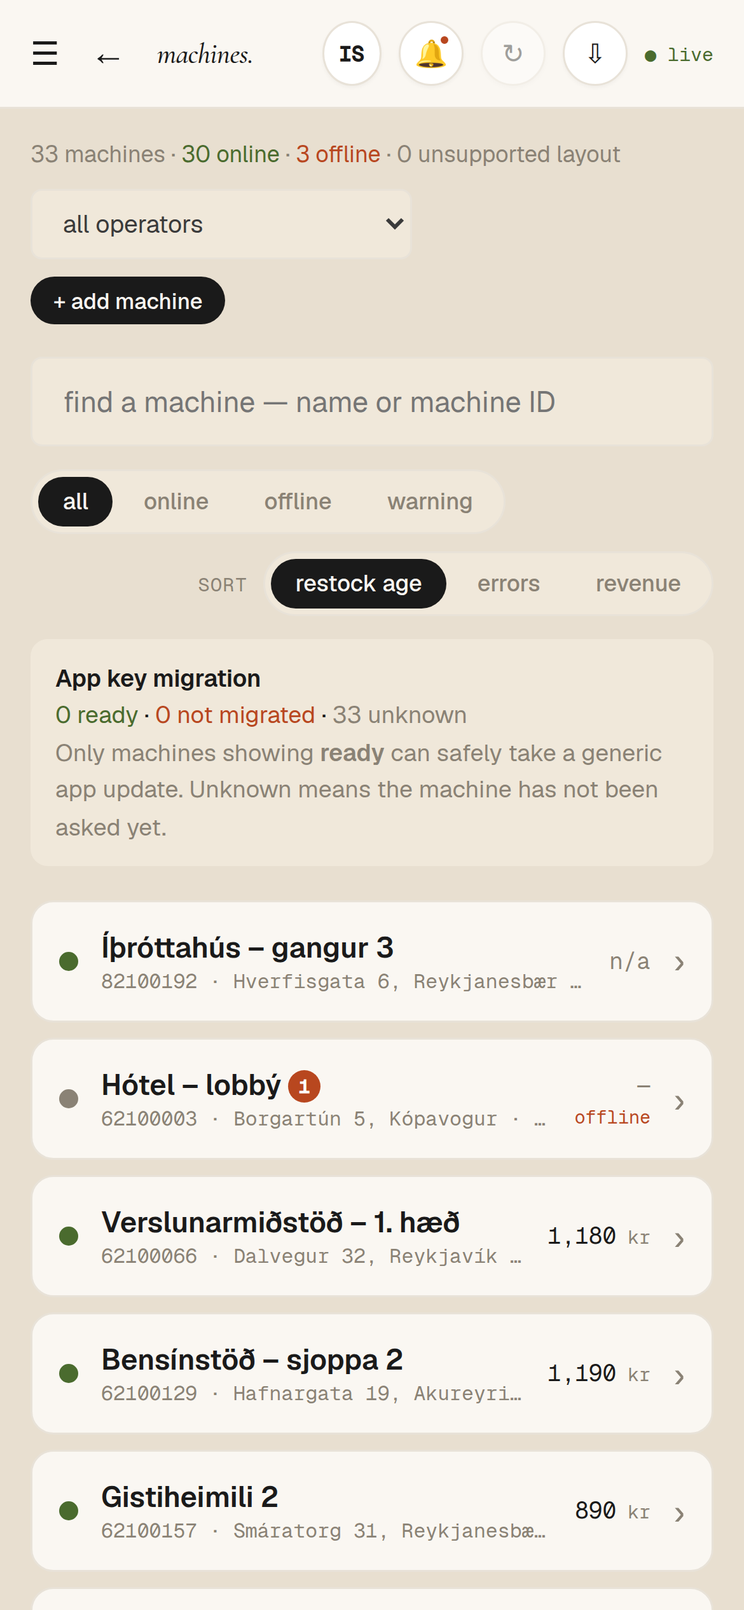
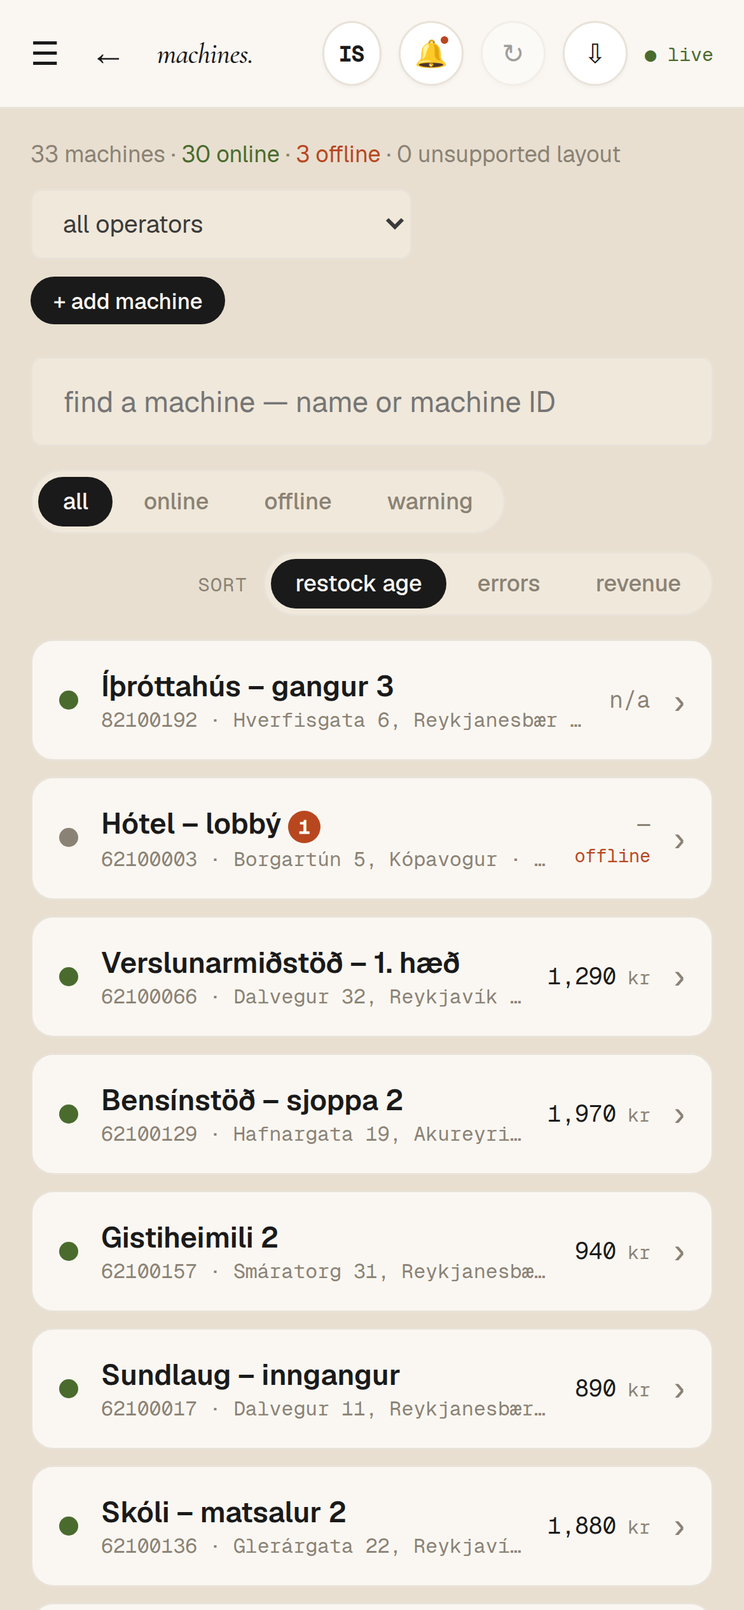
v6.36.0: restructured like the US vending platforms, screens shown whole in a framed view
Looked at how Cantaloupe Seed, Parlevel, VendSoft and VendSys present
themselves. The shared pattern: say who it is for in the first screen
(they all lead with machine counts), a scannable grid of named modules,
route and service efficiency as the core promise, money control given its
own billing - VAT, margin, commissions, cash accountability - and a demo or
free trial as the single call to action.

The page now follows that shape: a fit strip in the hero, an eight-module
capability grid, three deep sections on sales, stock and accounts, the
phone treated as a first-class surface, and the demo request kept as the
one CTA.

What is deliberately NOT copied is everything this product does not do.
No route optimisation, no dynamic routing, no pre-kit pick lists, no
warehouse inventory, and no invented savings percentages. Those are real
features of theirs and inventing them here would be the Nayax mistake
again.

Screenshots are no longer cropped panels. Each is the full 1440x900 or
390x844 viewport - the whole screen an operator actually sees - shown
inside a CSS browser window with an address bar, or a phone bezel.
Deliberately not fullPage captures either: a scroll capture is not a view
anyone sees at once (the phone orders list came out 8,179px tall).

THE REPORTING FIX APPLIES TO THE LIVE DASHBOARD. reports/summary never
read its days parameter, so the four tiles at the top of the reports page
summed every order ever taken and labelled the result 7D, 30D or 90D
[…]

Changed region(s): [[0.0308, 0.4056, 0.9538, 1.0]]

diff --git a/snarl-sopi-backend/public/features.html b/snarl-sopi-backend/public/features.html
@@ -63,15 +63,45 @@ section{padding:44px 0;border-bottom:1px solid var(--line);}
 h2{font-family:var(--serif);font-style:italic;font-weight:500;font-size:27px;margin-bottom:8px;}
 .sub{font-size:14.5px;color:var(--muted-2);max-width:62ch;margin-bottom:24px;}
 
+/* ── the operator's screen, framed ────────────────────────────────────── */
+/* Screenshots are shown whole, inside a window that looks like the app the operator opens, rather
+   than as cropped fragments floating on the page. The frame is CSS, so it stays crisp and costs
+   nothing; the image inside is the untouched 1440x900 viewport. */
+.screen{border-radius:11px;overflow:hidden;border:1px solid var(--cream-shadow);background:var(--cream);box-shadow:0 14px 44px rgba(0,0,0,.13);}
+.screen-bar{display:flex;align-items:center;gap:7px;padding:9px 12px;background:var(--cream-deep);border-bottom:1px solid var(--cream-shadow);}
+.screen-dot{width:9px;height:9px;border-radius:50%;background:var(--clay);flex:0 0 auto;}
+.screen-url{
+  flex:1;min-width:0;margin-left:6px;background:var(--cream);border:1px solid var(--cream-shadow);
+  border-radius:999px;padding:3px 11px;font-family:var(--mono);font-size:10px;color:var(--muted);
+  white-space:nowrap;overflow:hidden;text-overflow:ellipsis;
+}
+.screen img{display:block;width:100%;height:auto;}
+
+/* Phone: the same idea, a bezel around the real 390x844 screen. */
+.phone{width:100%;max-width:252px;margin:0 auto;border-radius:30px;padding:9px;background:var(--ink);box-shadow:0 14px 40px rgba(0,0,0,.2);}
+.phone img{display:block;width:100%;height:auto;border-radius:22px;}
+.phones{display:grid;grid-template-columns:repeat(auto-fit,minmax(170px,1fr));gap:22px;max-width:840px;}
+
+/* ── fit strip (who this is for, stated up front, the way the US platforms do) ─ */
+.fit{display:flex;flex-wrap:wrap;gap:10px;margin-top:22px;}
+.fit span{
+  background:var(--cream);border:.5px solid var(--line);border-radius:999px;padding:6px 14px;
+  font-size:12.5px;color:var(--ink-soft);
+}
+.fit b{font-weight:600;color:var(--ink);}
+
+/* ── capability grid ─────────────────────────────────────────────────── */
+.caps{display:grid;grid-template-columns:repeat(auto-fit,minmax(230px,1fr));gap:2px;background:var(--line);border:1px solid var(--line);border-radius:var(--r);overflow:hidden;}
+.caps > div{background:var(--cream);padding:16px 17px;}
+.caps h3{font-size:14px;font-weight:600;margin-bottom:4px;letter-spacing:-.1px;}
+.caps p{font-size:12.5px;color:var(--muted-2);line-height:1.5;}
+
 /* ── bands ───────────────────────────────────────────────────────────── */
-/* One band per thing an operator actually asks: what sold, what is in the machines, who needs a
-   visit. Text on one side, the real screen on the other, alternating. Three of them, and that is
-   the page - an operator scanning on a phone should be able to take in each one in a breath. */
-.band{display:grid;grid-template-columns:minmax(0,.72fr) minmax(0,1.28fr);gap:34px;align-items:center;}
-.band + .band{margin-top:52px;}
+.band{display:grid;grid-template-columns:minmax(0,.66fr) minmax(0,1.34fr);gap:32px;align-items:center;}
+.band + .band{margin-top:54px;}
 /* Flipping puts the text on the right, so the COLUMN WIDTHS have to flip with it - otherwise the
-   screenshot lands in the narrow column and shrinks to the point of being unreadable. */
-.band.flip{grid-template-columns:minmax(0,1.28fr) minmax(0,.72fr);}
+   screen lands in the narrow column and shrinks to the point of being unreadable. */
+.band.flip{grid-template-columns:minmax(0,1.34fr) minmax(0,.66fr);}
 .band.flip .band-txt{order:2;}
 .band-n{font-family:var(--mono);font-size:10px;letter-spacing:1.6px;color:var(--bronze-light);margin-bottom:10px;}
 .band h2{margin-bottom:10px;}
@@ -79,16 +109,21 @@ h2{font-family:var(--serif);font-style:italic;font-weight:500;font-size:27px;mar
 .pts{list-style:none;}
 .pts li{font-size:13.5px;color:var(--muted-2);padding:5px 0 5px 16px;position:relative;line-height:1.5;}
 .pts li::before{content:'';position:absolute;left:0;top:13px;width:5px;height:5px;border-radius:50%;background:var(--bronze-light);}
-@media (max-width:760px){
-  .band{grid-template-columns:1fr;gap:20px;}
+@media (max-width:820px){
+  .band, .band.flip{grid-template-columns:1fr;gap:20px;}
   .band.flip .band-txt{order:0;}
-  .band + .band{margin-top:40px;}
+  .band + .band{margin-top:42px;}
 }
 
-/* the short closing strip - one line each, no cards, no bullets */
 .also{display:grid;grid-template-columns:repeat(auto-fit,minmax(215px,1fr));gap:20px 26px;}
 .also div{font-size:13.5px;color:var(--muted-2);line-height:1.5;}
 .also strong{display:block;color:var(--ink);font-size:14px;font-weight:600;margin-bottom:3px;}
+
+/* ── honest-difference block ─────────────────────────────────────────── */
+.diff{background:var(--bronze-bg);border:1px solid var(--clay);border-radius:var(--rlg);padding:24px 22px;}
+.diff h3{font-family:var(--serif);font-style:italic;font-size:22px;font-weight:500;margin-bottom:9px;}
+.diff p{font-size:14.5px;color:var(--ink-soft);max-width:62ch;}
+.diff p + p{margin-top:10px;}
 
 .card{background:var(--cream);border:.5px solid var(--line);border-radius:var(--r);padding:17px 18px;}
 .card h3{font-size:15px;font-weight:600;margin-bottom:6px;letter-spacing:-.1px;}
@@ -168,34 +203,83 @@ footer a:hover{text-decoration:underline;}
 <div class="wrap">
 
   <div class="hero">
-    <h1 data-is="Hvað selst, hvað er að klárast, hvert þarf að fara."
-        data-en="What sold, what is running out, where you need to go.">Hvað selst, hvað er að klárast, hvert þarf að fara.</h1>
+    <h1 data-is="Sjáðu allar vélarnar í rauntíma — hvað selst, hvað er búið, hverja þarf að fylla."
+        data-en="See every machine in real time — what is selling, what is empty, which need filling.">Sjáðu allar vélarnar í rauntíma.</h1>
     <p class="lede"
-       data-is="Þrjár spurningar sem þú svarar á hverjum degi. Rekstrarkerfi fyrir sjálfsala og snjallkæla sem svarar þeim á einum skjá — líka í símanum, á leiðinni milli véla."
-       data-en="Three questions you answer every day. An operator backend for vending machines and smart fridges that answers them on one screen — including on your phone, between stops.">
-      Þrjár spurningar sem þú svarar á hverjum degi.
+       data-is="Rekstrarkerfi fyrir sjálfsala og snjallkæla: sala, lager, áfylling, viðvaranir og uppgjör á einum stað. Í vafra á skrifstofunni og í símanum á leiðinni."
+       data-en="An operator backend for vending machines and smart fridges: sales, stock, restocking, alerts and accounts in one place. In the browser at the office and on your phone on the road.">
+      Rekstrarkerfi fyrir sjálfsala og snjallkæla.
     </p>
-    <figure style="margin-top:30px">
-      <img class="shot" src="/assets/shots/desk-dashboard.png"
-           alt="Mælaborð rekstrarkerfisins" data-is-alt="Mælaborð rekstrarkerfisins" data-en-alt="The operator dashboard"
-           width="2880" height="1800">
+    <div class="fit">
+      <span data-is="Frá fyrstu vélinni upp í allan flotann" data-en="From your first machine to the whole fleet">Frá fyrstu vélinni upp í allan flotann</span>
+      <span data-is="Sjálfsalar og snjallkælar í sama viðmóti" data-en="Vending machines and smart fridges in one interface">Sjálfsalar og snjallkælar</span>
+      <span data-is="Íslenska og enska" data-en="Icelandic and English">Íslenska og enska</span>
+    </div>
+    <figure style="margin-top:32px">
+      <div class="screen">
+          <div class="screen-bar">
+            <span class="screen-dot"></span><span class="screen-dot"></span><span class="screen-dot"></span>
+            <span class="screen-url">admin.agvending.is</span>
+          </div>
+          <img src="/assets/shots/dashboard.png" width="2880" height="1800"
+               alt="Mælaborð rekstrarkerfisins" data-is-alt="Mælaborð rekstrarkerfisins" data-en-alt="The operator dashboard">
+        </div>
       <figcaption data-is="Sýnigögn — raunverulegt viðmót, tilbúnar tölur."
                   data-en="Sample data — the real interface, illustrative figures.">Sýnigögn — raunverulegt viðmót, tilbúnar tölur.</figcaption>
     </figure>
-    <div class="hero-meta">
-      <span data-is="Sjálfsalar og snjallkælar" data-en="Vending machines and smart fridges">Sjálfsalar og snjallkælar</span>
-      <span data-is="Íslenska og enska" data-en="Icelandic and English">Íslenska og enska</span>
-      <span data-is="Hannað fyrir símann" data-en="Built for the phone">Hannað fyrir símann</span>
-    </div>
   </div>
+
+  <!-- ── capability grid: named modules, one line each, scannable ────── -->
+  <section>
+    <h2 data-is="Allt sem reksturinn þarf" data-en="Everything the operation needs">Allt sem reksturinn þarf</h2>
+    <p class="sub"
+       data-is="Eitt kerfi í stað þess að púsla saman töflureiknum, skilaboðum og minnisblöðum."
+       data-en="One system instead of stitching together spreadsheets, messages and notes.">
+      Eitt kerfi í stað töflureikna og minnisblaða.
+    </p>
+    <div class="caps">
+      <div>
+        <h3 data-is="Sala í rauntíma" data-en="Real-time sales">Sala í rauntíma</h3>
+        <p data-is="Tekjur dagsins, vikunnar og mánaðarins — á flotann og á hverja vél." data-en="Revenue today, this week and this month — fleet-wide and per machine.">Tekjur á flotann og á hverja vél.</p>
+      </div>
+      <div>
+        <h3 data-is="Lagerstaða" data-en="Stock levels">Lagerstaða</h3>
+        <p data-is="Hvað er eftir í hverri vél, niður í einstök hólf, og hvað er uppselt núna." data-en="What is left in each machine, down to the slot, and what is sold out right now.">Niður í einstök hólf.</p>
+      </div>
+      <div>
+        <h3 data-is="Áfyllingarlisti" data-en="Restock queue">Áfyllingarlisti</h3>
+        <p data-is="Vélarnar raðaðar eftir því hverja er brýnast að heimsækja." data-en="Machines ranked by which most needs a visit.">Brýnast efst.</p>
+      </div>
+      <div>
+        <h3 data-is="Viðvaranir" data-en="Alerts">Viðvaranir</h3>
+        <p data-is="Vél sem dettur út, kælir sem hlýnar, hólf sem tæmist — á skjá og í tölvupósti." data-en="A machine that drops off, a fridge that warms, a slot that empties — on screen and by email.">Á skjá og í tölvupósti.</p>
+      </div>
+      <div>
+        <h3 data-is="Uppgjör og VSK" data-en="Accounts and VAT">Uppgjör og VSK</h3>
+        <p data-is="Tekjur, VSK og framlegð eftir vöru. Kvittanir og útflutningur í CSV." data-en="Revenue, VAT and margin by product. Receipts and CSV export.">Framlegð eftir vöru, CSV út.</p>
+      </div>
+      <div>
+        <h3 data-is="Fjarstýring" data-en="Remote control">Fjarstýring</h3>
+        <p data-is="Opna hurð kælis, stilla kælingu, taka vél úr sölu — án þess að fara á staðinn." data-en="Open a fridge door, set the cooling, take a machine out of service — without driving there.">Án þess að fara á staðinn.</p>
+      </div>
+      <div>
+        <h3 data-is="Kvartanir" data-en="Complaints">Kvartanir</h3>
+        <p data-is="Kvörtun kemur úr vélinni sjálfri; þú svarar og endurgreiðir úr sama viðmóti." data-en="A complaint arrives from the machine itself; you reply and refund from the same screen.">Svara og endurgreiða á staðnum.</p>
+      </div>
+      <div>
+        <h3 data-is="Notendur og aðgangur" data-en="Users and access">Notendur og aðgangur</h3>
+        <p data-is="Starfsmaður sér aðeins sínar vélar. Rekstrarstjóri sér allt og býður öðrum aðgang." data-en="Staff see only their own machines. The manager sees everything and invites the rest.">Hver sér aðeins sitt.</p>
+      </div>
+    </div>
+  </section>
 
   <section>
     <div class="band">
       <div class="band-txt">
         <div class="band-n">01</div>
         <h2 data-is="Salan" data-en="Sales">Salan</h2>
-        <p data-is="Tekjur dagsins efst, og svo niður í hvern dag, hverja vél og hverja færslu. Sjö dagar, þrjátíu eða níutíu."
-           data-en="Today's revenue at the top, then down into each day, each machine and each transaction. Seven days, thirty or ninety.">
+        <p data-is="Tekjur dagsins efst, og svo niður í hvern dag, hverja vél og hverja færslu."
+           data-en="Today's revenue at the top, then down into each day, each machine and each transaction.">
           Tekjur dagsins efst, og svo niður í hvern dag, hverja vél og hverja færslu.
         </p>
         <ul class="pts">
@@ -205,10 +289,15 @@ footer a:hover{text-decoration:underline;}
         </ul>
       </div>
       <figure>
-        <img class="shot" loading="lazy" src="/assets/shots/sales-trends.png"
-             alt="Tekjur síðustu 30 daga" data-is-alt="Tekjur síðustu 30 daga" data-en-alt="Revenue over the last 30 days"
-             width="2328" height="464">
-        <figcaption data-is="Tekjur eftir dögum" data-en="Revenue by day">Tekjur eftir dögum</figcaption>
+        <div class="screen">
+          <div class="screen-bar">
+            <span class="screen-dot"></span><span class="screen-dot"></span><span class="screen-dot"></span>
+            <span class="screen-url">admin.agvending.is</span>
+          </div>
+          <img loading="lazy" src="/assets/shots/dashboard-revenue.png" width="2880" height="1800"
+               alt="Tekjur og frammistaða véla" data-is-alt="Tekjur og frammistaða véla" data-en-alt="Revenue and machine performance">
+        </div>
+        <figcaption data-is="Tekjur eftir dögum og tekjur eftir vél" data-en="Revenue by day and revenue by machine">Tekjur eftir dögum og eftir vél</figcaption>
       </figure>
     </div>
 
@@ -216,44 +305,72 @@ footer a:hover{text-decoration:underline;}
       <div class="band-txt">
         <div class="band-n">02</div>
         <h2 data-is="Lagerinn" data-en="Stock">Lagerinn</h2>
-        <p data-is="Hvað er eftir í hverri vél, niður í einstök hólf. Þú sérð hvað er búið áður en viðskiptavinurinn gerir það."
-           data-en="What is left in each machine, down to the individual slot. You see what has run out before the customer does.">
-          Hvað er eftir í hverri vél, niður í einstök hólf.
+        <p data-is="Hvað er eftir í hverri vél. Þú sérð hvað er búið áður en viðskiptavinurinn gerir það."
+           data-en="What is left in each machine. You see what has run out before the customer does.">
+          Hvað er eftir í hverri vél.
         </p>
         <ul class="pts">
           <li data-is="Hvaða vara er búin, í hvaða vél, og hversu lengi" data-en="Which product is out, in which machine, and for how long">Hvað er búið og hversu lengi</li>
-          <li data-is="Lagerstaða í prósentum á hverja vél" data-en="Stock level as a percentage, per machine">Lagerstaða á hverja vél</li>
+          <li data-is="Nettengd eða ekki, og hvenær var síðast fyllt á" data-en="Online or not, and when it was last filled">Nettengd og síðasta áfylling</li>
           <li data-is="Síðasti söludagur eftir lotum" data-en="Best-before dates, tracked per batch">Síðasti söludagur</li>
         </ul>
       </div>
       <figure>
-        <img class="shot" loading="lazy" src="/assets/shots/stock-soldout.png"
-             alt="Vörur sem eru uppseldar" data-is-alt="Vörur sem eru uppseldar" data-en-alt="Products currently sold out"
-             width="2328" height="814">
-        <figcaption data-is="Uppselt núna, yfir allan flotann" data-en="Sold out right now, across the fleet">Uppselt núna, yfir allan flotann</figcaption>
+        <div class="screen">
+          <div class="screen-bar">
+            <span class="screen-dot"></span><span class="screen-dot"></span><span class="screen-dot"></span>
+            <span class="screen-url">admin.agvending.is</span>
+          </div>
+          <img loading="lazy" src="/assets/shots/machines.png" width="2880" height="1800"
+               alt="Vélalisti með stöðu og síðustu áfyllingu" data-is-alt="Vélalisti með stöðu og síðustu áfyllingu" data-en-alt="The machine list with status and last restock">
+        </div>
+        <figcaption data-is="Allur flotinn í einum lista" data-en="The whole fleet in one list">Allur flotinn í einum lista</figcaption>
       </figure>
     </div>
 
     <div class="band">
       <div class="band-txt">
         <div class="band-n">03</div>
-        <h2 data-is="Áfyllingin" data-en="Restocking">Áfyllingin</h2>
-        <p data-is="Vélunum raðað eftir því hverja er brýnast að heimsækja — dagar frá síðustu áfyllingu og hversu full hún er. Svo skráirðu áfyllinguna í símanum, við vélina."
-           data-en="Machines ranked by which most needs a visit — days since the last fill and how full it is. Then you record the fill on your phone, standing at the machine.">
-          Vélunum raðað eftir því hverja er brýnast að heimsækja.
+        <h2 data-is="Uppgjörið" data-en="The accounts">Uppgjörið</h2>
+        <p data-is="Tekjur, VSK og framlegð eftir vöru — yfir sjö daga, þrjátíu eða níutíu. Út í CSV fyrir bókarann."
+           data-en="Revenue, VAT and margin by product — over seven days, thirty or ninety. Out to CSV for the bookkeeper.">
+          Tekjur, VSK og framlegð eftir vöru.
         </p>
         <ul class="pts">
-          <li data-is="Hverja þarf að heimsækja í dag, og hverja ekki" data-en="Which need a visit today, and which do not">Hverja þarf að heimsækja</li>
-          <li data-is="Skráning hólf fyrir hólf, í símanum við vélina" data-en="Record it slot by slot, on your phone at the machine">Skráning hólf fyrir hólf</li>
-          <li data-is="Verð má leiðrétta um leið" data-en="Fix a price while you are there">Verð má leiðrétta um leið</li>
+          <li data-is="VSK innheimt og tekjur án VSK" data-en="VAT collected and revenue net of VAT">VSK og tekjur án VSK</li>
+          <li data-is="Framlegð eftir vöru, ekki bara sala" data-en="Margin by product, not just sales">Framlegð eftir vöru</li>
+          <li data-is="Mest sölu vörur og þær sem hreyfast ekki" data-en="Best sellers and the ones that never move">Mest sölu og minnst sölu</li>
         </ul>
       </div>
       <figure>
-        <img class="shot" loading="lazy" src="/assets/shots/restock-due.png"
-             alt="Vélar sem þarf að fylla á" data-is-alt="Vélar sem þarf að fylla á" data-en-alt="Machines due a restock"
-             width="2328" height="638">
-        <figcaption data-is="Brýnast efst" data-en="Most overdue first">Brýnast efst</figcaption>
+        <div class="screen">
+          <div class="screen-bar">
+            <span class="screen-dot"></span><span class="screen-dot"></span><span class="screen-dot"></span>
+            <span class="screen-url">admin.agvending.is</span>
+          </div>
+          <img loading="lazy" src="/assets/shots/reports.png" width="2880" height="1800"
+               alt="Uppgjör: tekjur, VSK og framlegð" data-is-alt="Uppgjör: tekjur, VSK og framlegð" data-en-alt="Reports: revenue, VAT and margin">
+        </div>
+        <figcaption data-is="Uppgjör yfir valið tímabil" data-en="Accounts over the chosen period">Uppgjör yfir valið tímabil</figcaption>
       </figure>
+    </div>
+  </section>
+
+  <!-- ── the phone: same system, in your hand ───────────────────────── -->
+  <section>
+    <h2 data-is="Sama kerfið í símanum" data-en="The same system on your phone">Sama kerfið í símanum</h2>
+    <p class="sub"
+       data-is="Ekki stytt útgáfa og ekki sérstakt smáforrit — sama kerfið, sami aðgangur, í vafranum í símanum. Þar fer reksturinn fram."
+       data-en="Not a cut-down version and not a separate app — the same system, the same login, in your phone's browser. That is where the work happens.">
+      Sama kerfið, sami aðgangur, í vafranum í símanum.
+    </p>
+    <div class="phones">
+      <div class="phone"><img loading="lazy" src="/assets/shots/phone-dashboard.png" width="1170" height="2532"
+           alt="Mælaborð í síma" data-is-alt="Mælaborð í síma" data-en-alt="The dashboard on a phone"></div>
+      <div class="phone"><img loading="lazy" src="/assets/shots/phone-machines.png" width="1170" height="2532"
+           alt="Vélalisti í síma" data-is-alt="Vélalisti í síma" data-en-alt="The machine list on a phone"></div>
+      <div class="phone"><img loading="lazy" src="/assets/shots/phone-orders.png" width="1170" height="2532"
+           alt="Færslur í síma" data-is-alt="Færslur í síma" data-en-alt="Transactions on a phone"></div>
     </div>
   </section>
 
@@ -276,15 +393,29 @@ footer a:hover{text-decoration:underline;}
               data-en="Open a fridge door, set the cooling, take a machine out of service — without driving there.">Opna hurð, stilla kælingu, taka úr sölu.</span>
       </div>
       <div>
-        <strong data-is="Fleiri en einn notandi" data-en="More than one user">Fleiri en einn notandi</strong>
-        <span data-is="Starfsmaður sér aðeins sínar vélar. Rekstrarstjóri sér allt og býður öðrum aðgang."
-              data-en="Staff see only their own machines. The manager sees everything and invites the rest.">Hver sér aðeins sínar vélar.</span>
+        <strong data-is="Kvittanir og leigureikningar" data-en="Receipts and lease invoices">Kvittanir og leigureikningar</strong>
+        <span data-is="Kvittun í tölvupósti til kaupanda, og leigureikningar með hreyfingayfirliti."
+              data-en="An emailed receipt for the buyer, and lease invoices with statements.">Kvittanir og leigureikningar.</span>
       </div>
       <div>
         <strong data-is="Kvartanir og endurgreiðslur" data-en="Complaints and refunds">Kvartanir og endurgreiðslur</strong>
         <span data-is="Kvörtun kemur úr vélinni sjálfri; þú svarar og endurgreiðir úr sama viðmóti."
               data-en="A complaint arrives from the machine itself; you reply and refund from the same screen.">Kvörtun kemur úr vélinni sjálfri.</span>
       </div>
+    </div>
+  </section>
+
+  <section>
+    <div class="diff">
+      <h3 data-is="Við notum þetta sjálf, alla daga." data-en="We use this ourselves, every day.">Við notum þetta sjálf, alla daga.</h3>
+      <p data-is="AG Vending rekur sjálfsala og snjallkæla á höfuðborgarsvæðinu. Kerfið hér er ekki hliðarverkefni — það er kerfið sem við stýrum okkar eigin vélum með, og það er byggt á því sem raunverulega klikkar í rekstrinum."
+         data-en="AG Vending runs vending machines and smart fridges in the Reykjavík area. This is not a side project — it is the system we run our own machines on, built around what actually goes wrong in the business.">
+        Kerfið hér er það sama og við notum sjálf.
+      </p>
+      <p data-is="Það þýðir líka að kerfið er á íslensku, verðin eru í krónum, VSK er reiknaður eins og hér er gert, og sá sem svarar þér þekkir vélina sem þú ert að tala um."
+         data-en="It also means the system is in Icelandic, prices are in krónur, VAT is worked out the way it is done here, and whoever answers you knows the machine you are talking about.">
+        Á íslensku, í krónum, með íslenskum VSK.
+      </p>
     </div>
   </section>
 

diff --git a/snarl-sopi-backend/public/index.html b/snarl-sopi-backend/public/index.html
@@ -7837,12 +7837,14 @@ async function renderReports() {
 
   // Stats
   try {
-    const r = await API.get('/api/v1/reports/summary');
+    // Every other panel on this page passes _reportDays; this one did not, so the four tiles
+    // showed all-time totals next to panels showing the selected window.
+    const r = await API.get('/api/v1/reports/summary?days=' + _reportDays);
     if (r && r.ok) {
       const d = r.data;
       document.getElementById('report-stats').innerHTML =
-        '<div class="stat"><div class="stat-lbl">total revenue</div><div class="stat-val">' + formatKr(d.totalRevenueKr) + '</div></div>' +
-        '<div class="stat"><div class="stat-lbl">total orders</div><div class="stat-val">' + d.totalOrders + '</div></div>' +
+        '<div class="stat"><div class="stat-lbl">revenue · ' + _reportDays + 'd</div><div class="stat-val">' + formatKr(d.totalRevenueKr) + '</div></div>' +
+        '<div class="stat"><div class="stat-lbl">orders · ' + _reportDays + 'd</div><div class="stat-val">' + d.totalOrders + '</div></div>' +
         '<div class="stat"><div class="stat-lbl">avg order</div><div class="stat-val">' + formatKr(d.avgOrderValueKr) + '</div></div>' +
         '<div class="stat"><div class="stat-lbl">refund rate</div><div class="stat-val">' + d.refundRate + '%</div></div>';
       document.getElementById('report-table').innerHTML = (d.byMachine || []).map(m =>

diff --git a/snarl-sopi-backend/src/router.js b/snarl-sopi-backend/src/router.js
@@ -3442,11 +3442,18 @@ function handleMachineSalesToday(req, res) {
 // ─── Reports ──────────────────────────────────────────────────────────────────
 
 function handleReportSummary(req, res) {
+  // The reports page has a 7D/30D/90D selector and this handler used to ignore it completely: it
+  // summed every order ever taken and labelled the result with whichever period was selected. The
+  // four tiles at the top of the page were all-time figures wearing a period's name.
+  const days = getDaysParam(req.query, 30);
+  const fromMs = startOfDayUTC(Date.now()) - (days - 1) * 86400000;
   const allowed = new Set(machinesForUser(req.user).map(m => m.deviceCode));
-  const scopedOrders = orders.filter(o => allowed.has(o.deviceCode));
+  const scopedOrders = orders.filter(o => allowed.has(o.deviceCode) && o.createTime >= fromMs);
   const success = scopedOrders.filter(o => o.status === 1);
   const total   = success.reduce((s, o) => s + o.totalAmount, 0);
   ok(res, {
+    days,
+    fromUTC:        fromMs,
     totalOrders:    scopedOrders.length,
     successOrders:  success.length,
     totalRevenueKr: Math.round(total / 100),
